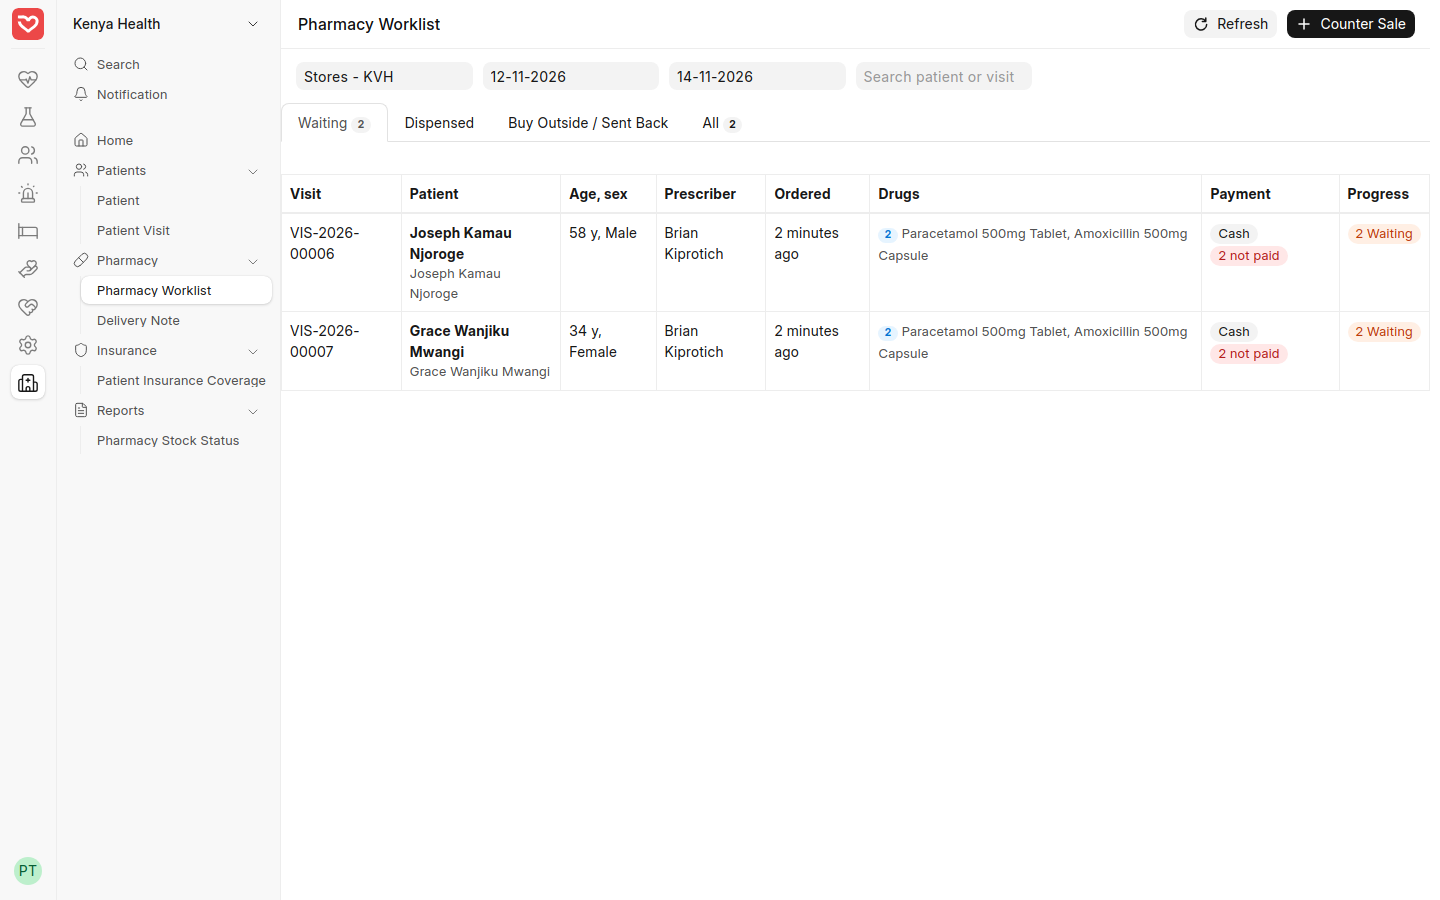
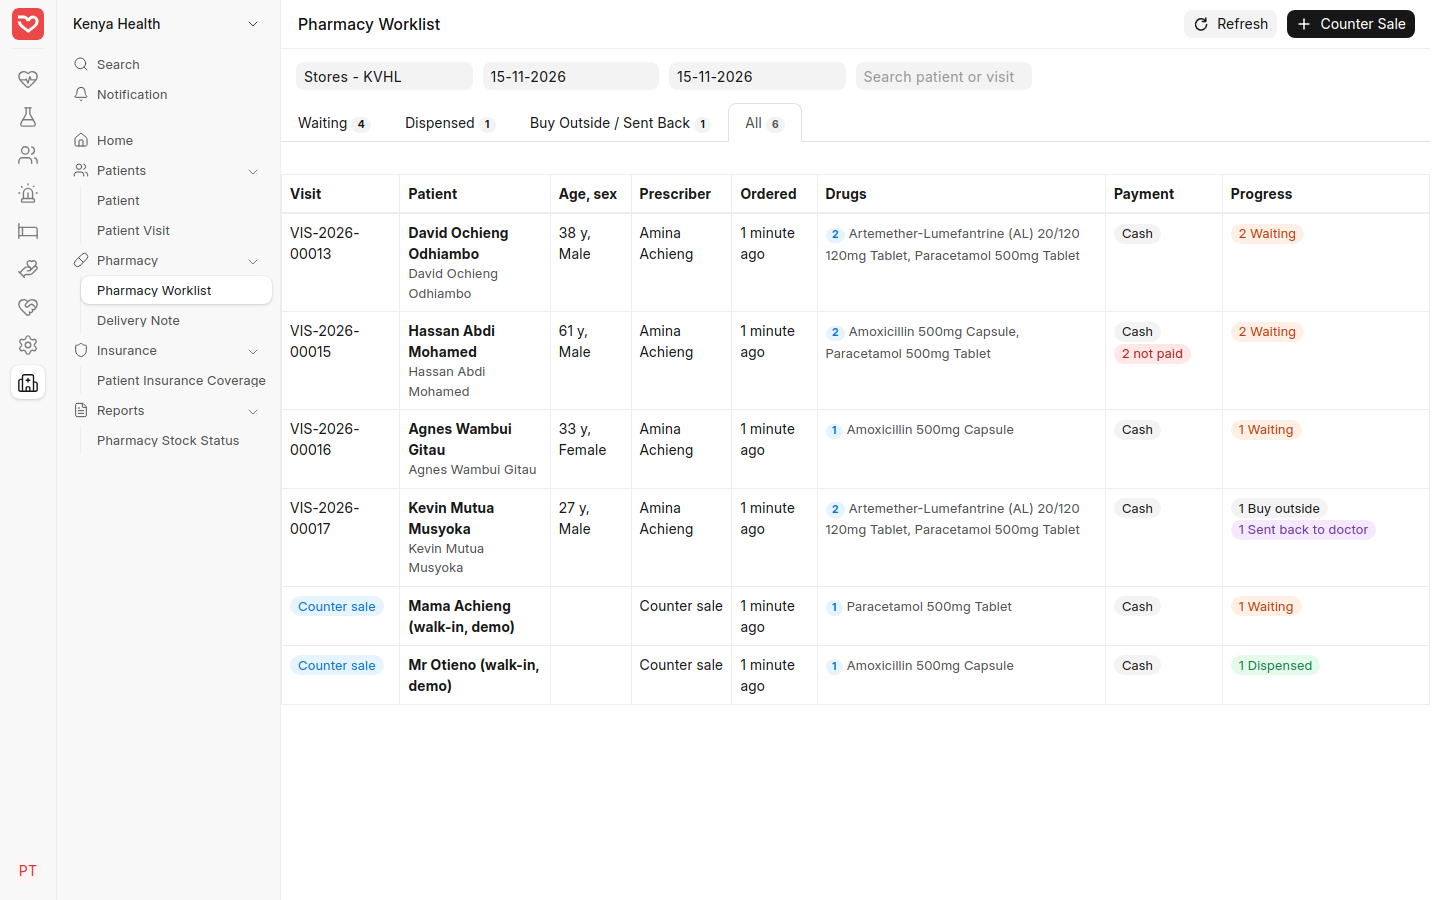
Guides: lab and pharmacy screenshots retaken on the live demo with today's demo patients; demo script for Bethesda

diff --git a/docs/guides/temporary/demo-script-bethesda.md b/docs/guides/temporary/demo-script-bethesda.md
@@ -1,0 +1,72 @@
+# Demo Script for Bethesda — Outpatient, Lab and Pharmacy
+
+A 20-minute walk through Bethesda's own outpatient flow on the demo hospital, in the order of their requirements document (points 1 to 17). Each step says who logs in, what to click, and which of their points it answers. Everything on the demo is fictional.
+
+**Where:** https://hospital.royceltd.com. The logins and the password are in *Demo logins.txt* (kept by Royce, not in this document). Use one browser window per login (or private windows), so you can switch roles without logging out.
+
+**Before the demo:** ask Royce to refresh the demo that morning. Today's patients are then waiting at every stage. On each worklist, set **From** to today, so only today's demo patients show.
+
+## 1. Reception: check-in, cash or insurance (points 1–2)
+
+**Login:** reception. **Where:** Patient › *+ Add*, then **Create › Check In (New Visit)**.
+
+- Register a patient. Point out the required details (ID, phone, nationality, residence) and that phone and ID numbers are masked for other staff.
+- Check them in: service, **Cash or Insurance** (payer, scheme, member number), straight to Triage.
+- Show the **Patient Visit** list: the waiting list per station.
+
+## 2. Triage and the next doctor (points 2–3)
+
+**Login:** nurse. **Where:** Vital Signs › *+ Add* for the patient (it links to today's visit), then on the Patient Visit **Send To › Consultation**.
+
+- Record vitals. Abnormal readings turn red, and the visit shows *Abnormal*. No service is asked for again.
+- **Send To Consultation without choosing a doctor:** the system picks the doctor on duty with the fewest patients, and shows doctor, room and service. Print the **Queue Slip** for the patient.
+
+## 3. The doctor orders tests (point 4)
+
+**Login:** amina.achieng (Dr Amina). **Where:** Patient Visit list › **My Patients**, open the consultation.
+
+- Presenting complaint, history (saved back to the patient's file), lab tests and drugs.
+- On submit: a cash patient goes to the Cashier first. For an insured patient, anything the scheme doesn't cover is paid first ("Patient pays first").
+
+## 4. The laboratory (points 5–8)
+
+**Login:** lab. **Where:** Kenya Health › Laboratory › **Lab Worklist**, *From* = today.
+
+- **One row per patient, with the tests inside** (point 6): five patients today, each at a different stage.
+- **Mercy:** three tests *Not paid*. They can't be collected until the Cashier is paid. Payment control at the lab.
+- **Faith:** an **urgent walk-in** from an outside clinic (point 5). Show **Walk-in Request** to create one.
+- **Samuel** (*Results Entry*): **Enter Results**, all three tests on one screen.
+- **Esther** (*Validate Results*): Hb 9.1 shows **L**, white cells 13.4 shows **H** as you type. **Save and Validate** (point 7: validated by the person who entered).
+- Print a Laboratory Report: who collected, who validated, when.
+
+**Login:** Dr Amina. **Where:** Laboratory › **Results Inbox** (point 8).
+
+- David's results are *New*. His Hb is **Abnormal** (12.9 is low for a man). Opening one marks it read.
+
+## 5. The pharmacy (points 9–11)
+
+**Login:** pharmacy. **Where:** Kenya Health › Pharmacy › **Pharmacy Worklist**, *From* = today.
+
+- **Hassan:** prescription *Not billed*. **Bill Drugs** sends it to the Cashier (point 10: "pharmacy adds to billing").
+- **David:** paid. **Dispense**: stock goes down and the **medicine labels** print, with the batch and expiry.
+- **Agnes:** 10 of 15 capsules given, the rest waiting for stock (part dispensing).
+- **Kevin:** one drug **sent back to the doctor** for a substitute (point 10), one **bought outside**.
+- **Counter Sale** for a walk-in (point 11). Medicines are counted by the tablet, so a single tablet can be sold; strips and boxes are extra units of the same stock (set up as in the pharmacy setup guide).
+
+## 6. The Cashier (points 12 and 16)
+
+**Login:** cashier. **Where:** the Patient Visit › **Bill**.
+
+- The visit's running bill, **Create Bill**, M-Pesa or cash, signed by KRA eTIMS.
+- Cashier shifts: open, take payments, close and count (point 16).
+
+## 7. Close: what else is ready
+
+- Radiology worklist and reports (point 15), theatre forms, maternity, inpatient wards, MOH 705/706/711/717, management dashboards, SMS.
+- On the roadmap, from their document: petty cash (accounts office approval), TB screening, claims and SHA, PACS for the Carestream X-ray and the Mindray ultrasound.
+
+## If something goes wrong
+
+- A list is empty: check the dates (*From* = today) and the pharmacy store (top of the Pharmacy Worklist).
+- "Payment required": that is the payment rule working. Pay at the Cashier, or show a manager's **Allow Services Before Payment** on the visit.
+- Anything else: a screenshot to Royce.

diff --git a/docs/guides/02-outpatient.md b/docs/guides/02-outpatient.md
@@ -132,15 +132,15 @@ The list refreshes every minute. Change the dates at the top to look further bac
 
 ![Lab Worklist](images/outpatient/11-lab-worklist.png)
 
-*The Lab Worklist: one row per order. Lucy's two tests have their samples taken; Joseph's white cell count is waiting.*
+*The Lab Worklist for today: one row per order, from Faith's urgent walk-in request to David's validated results.*
 
 ![An order opened](images/outpatient/12-lab-order.png)
 
-*Joseph's order: the test is paid, so it is ticked for Collect Samples.*
+*Mercy's order: her three tests aren't paid yet, so they can't be ticked until the Cashier takes the payment.*
 
 ![Results entry](images/outpatient/13-lab-results-entry.png)
 
-*Enter Results: both of Lucy's tests on one screen, with their normal ranges.*
+*Esther's three results on one screen: Hb 9.1 flagged L, white cells 13.4 flagged H.*
 
 By default the person who entered the results validates them. To require a second person, an administrator ticks *A second person validates results* in Kenya Health Settings › Laboratory.
 
@@ -165,7 +165,7 @@ Demo records: HLC-LAB-2026-00006 (malaria slide, positive), HLC-LAB-2026-00005 (
 
    ![Results Inbox](images/outpatient/14-results-inbox.png)
 
-   *The Results Inbox: a new result waiting to be read.*
+   *Dr Amina's Results Inbox: David's new results, his Hb marked Abnormal.*
 3. In **Drug Prescription**, add each drug with dosage, period and interval. The quantity to dispense is worked out from them: *4-0-4* for 3 days is 24 tablets, *1-1-1* for 3 days is 9.
 4. Submit. Each drug becomes a medication request for the cashier and pharmacy.
 

diff --git a/docs/guides/README.md b/docs/guides/README.md
@@ -9,7 +9,7 @@ Step-by-step guides for hospital staff, written against the demo hospital (Kijan
 | [03 Inpatient](03-inpatient.md) | Doctors, ward nurses, pharmacy, cashier | 2026-11-11, v0.23.1 |
 | [04 Insurance](04-insurance.md) | Reception, cashier, claims officer, finance | 2026-11-11, v0.23.1 |
 | [05 Maternity](05-maternity.md) | ANC nurses, midwives, MCH, cashier | 2026-11-11, v0.23.1 |
-| [06 Pharmacy and stock](06-pharmacy-and-stock.md) | Pharmacist, stores | 2026-11-15, v0.28.0 (worklist shots from a local demo) |
+| [06 Pharmacy and stock](06-pharmacy-and-stock.md) | Pharmacist, stores | 2026-11-15, v0.28.1 |
 | [07 Cashier day-end](07-cashier-day-end.md) | Cashier, accountant | 2026-11-11, v0.23.1 |
 | [08 Administrator setup](08-administrator-setup.md) | System administrator | 2026-11-15, v0.28.0 |
 | [09 Patient SMS](09-patient-sms.md) | Reception, clinical staff, administrator | 2026-11-08, v0.15.1 |

diff --git a/docs/guides/temporary/README.md b/docs/guides/temporary/README.md
@@ -10,5 +10,6 @@ Once a temporary guide's job is done (the hospital is set up, the release is tes
 | [Version 0.24 and 0.25 testing](v0.25-testing.md) | The hospital's testers, on the demo | v0.25.0 | 2026-11-13 |
 | [Lab Worklist and Results Inbox testing](v0.27-testing.md) | The hospital's testers, on the demo | v0.27.0 | 2026-11-14 |
 | [Pharmacy Worklist testing](v0.28-testing.md) | The hospital's testers, on the demo | v0.28.0 | 2026-11-15 |
+| [Demo script for Bethesda](demo-script-bethesda.md) | Royce, presenting to Bethesda | v0.28.1 | 2026-11-15 |
 
 PDFs: `TEMPORARY=1 node make_pdfs.mjs ../temporary "<output folder>/Temporary"` from `docs/guides/tools` (same environment variables as the numbered guides).

diff --git a/docs/guides/06-pharmacy-and-stock.md b/docs/guides/06-pharmacy-and-stock.md
@@ -124,11 +124,11 @@ A drug already on a bill can't be bought outside or sent back: the Cashier takes
 
 ![Pharmacy Worklist](images/pharmacy/10-pharmacy-worklist.png)
 
-*The Pharmacy Worklist: two patients' prescriptions waiting, not yet paid.*
+*The Pharmacy Worklist for today: prescriptions waiting (paid or not), one drug sent back and one bought outside, and two counter sales.*
 
 ![Dispensing](images/pharmacy/11-dispense.png)
 
-*Joseph's drugs are paid: both ticked for Dispense, with the store's stock.*
+*David's drugs are paid: both ticked for Dispense, with the store's stock.*
 
 ![Medicine labels](images/pharmacy/12-medicine-labels.png)
 
